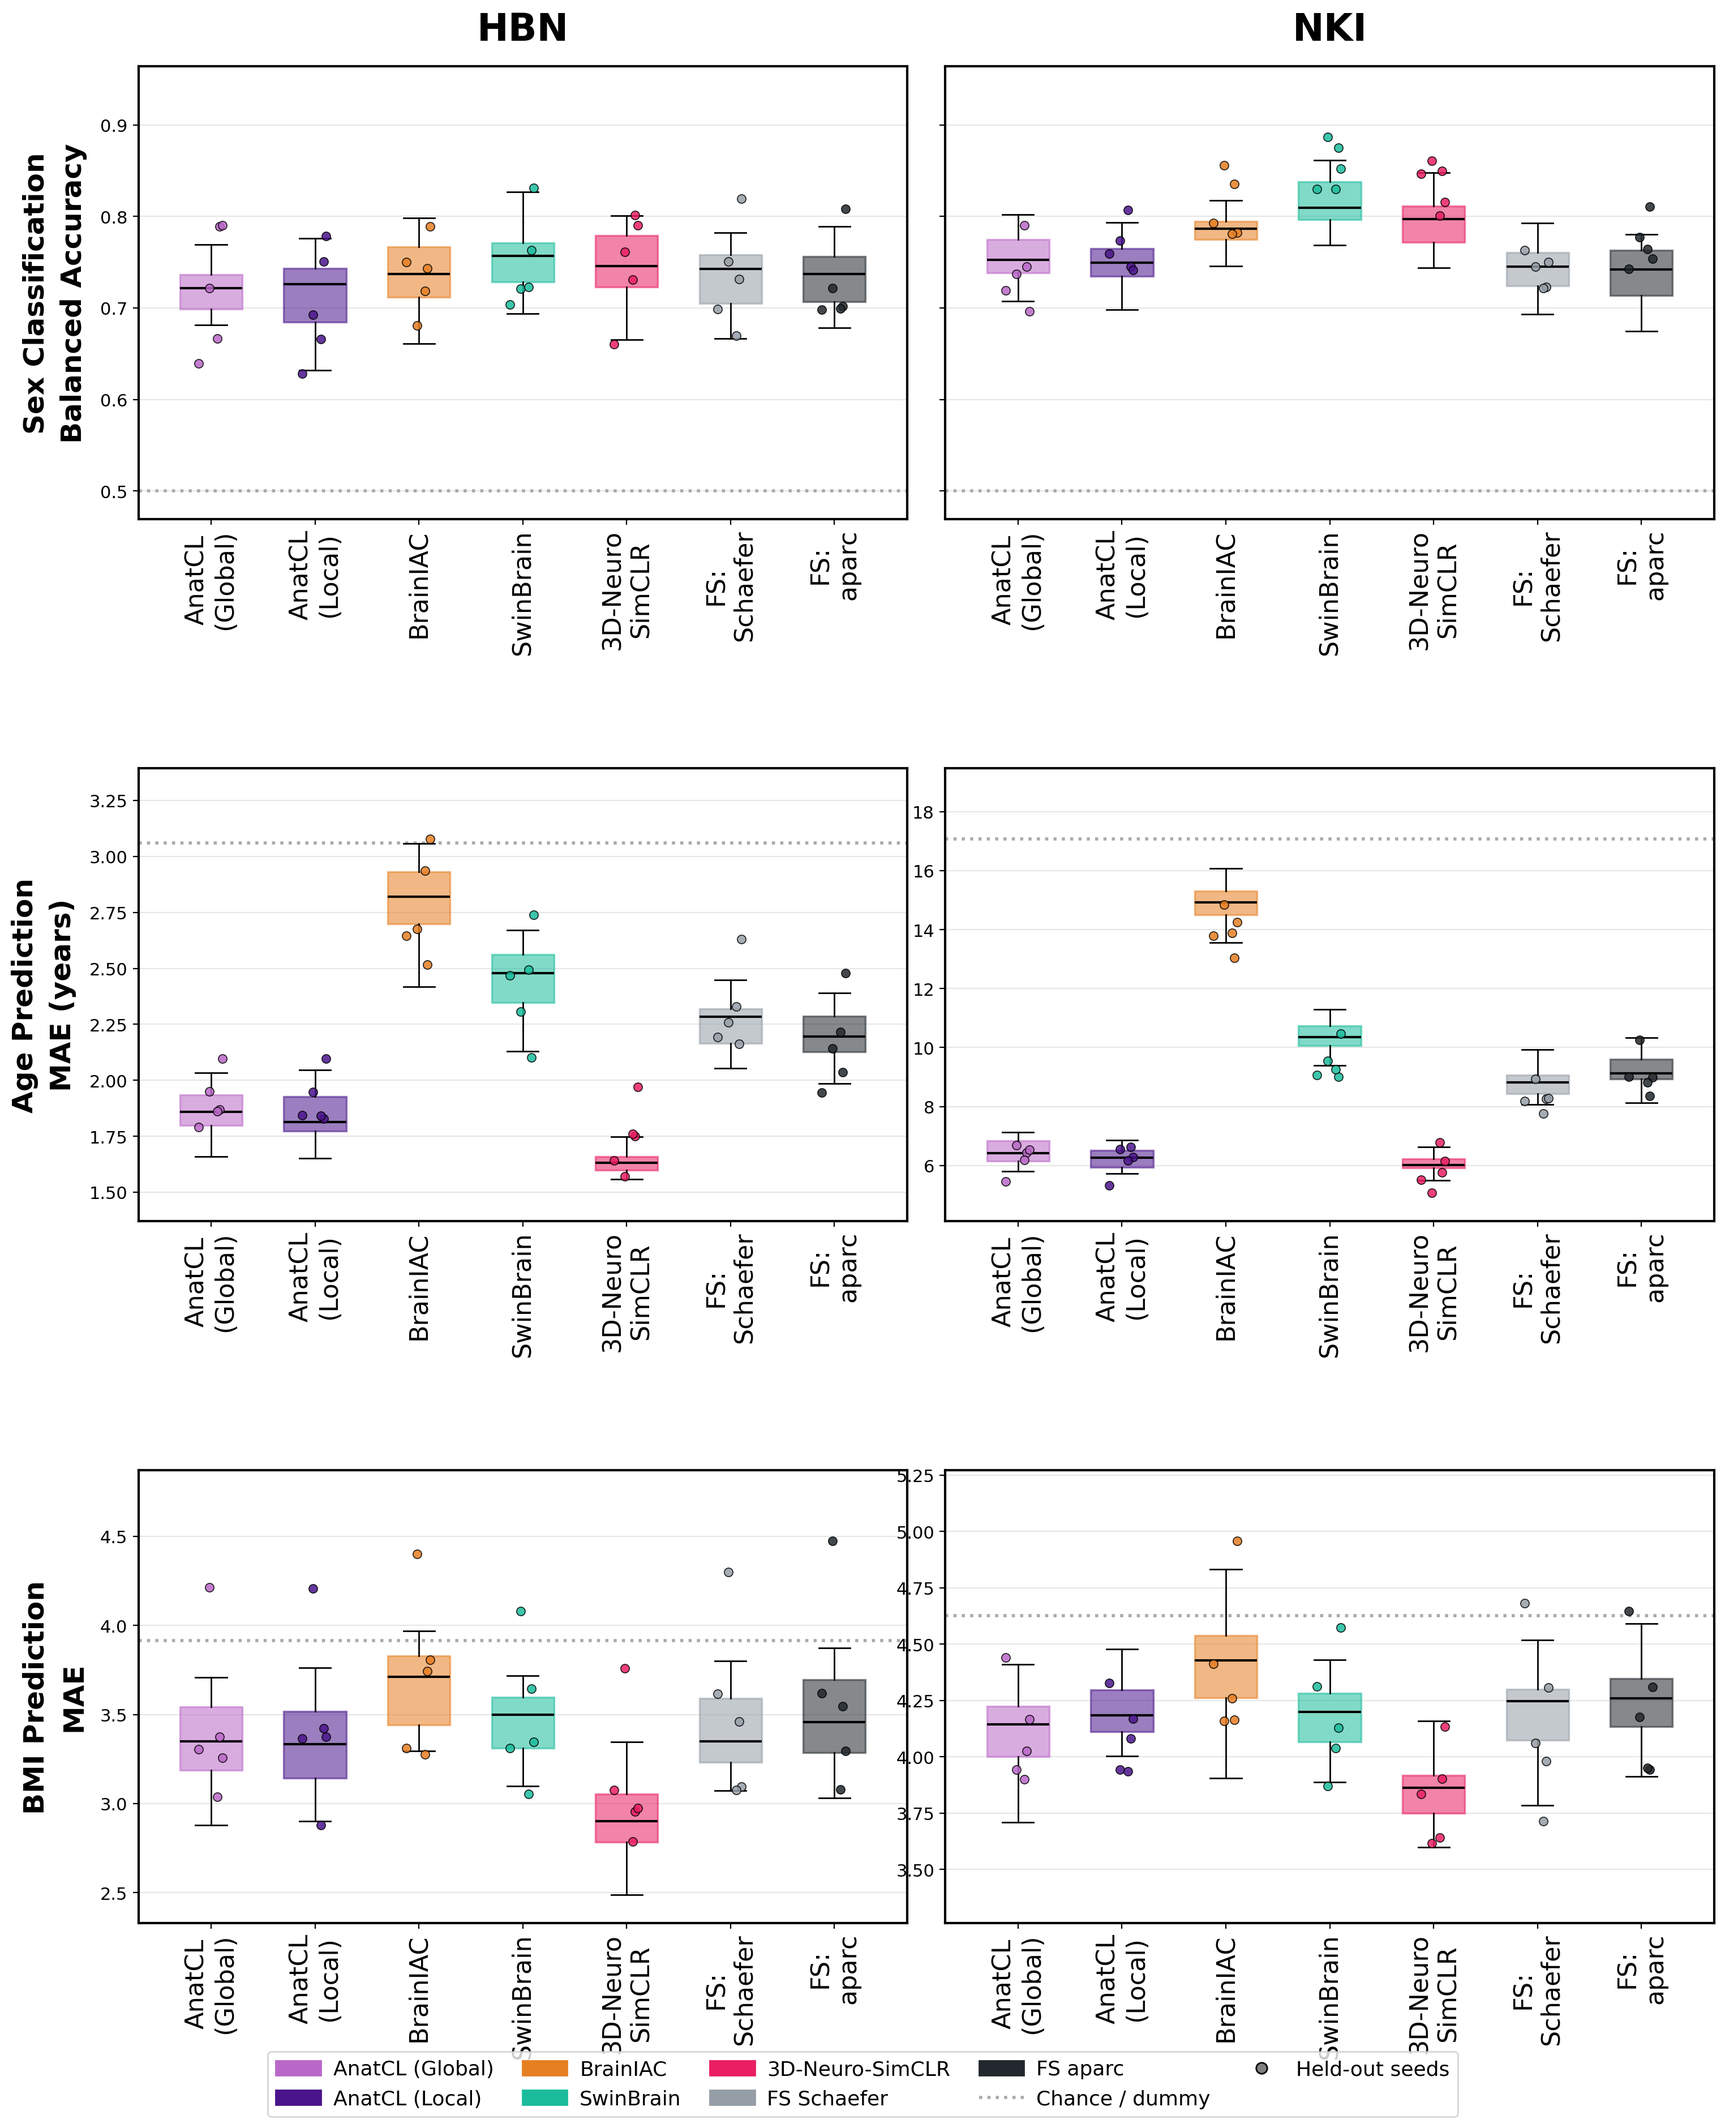
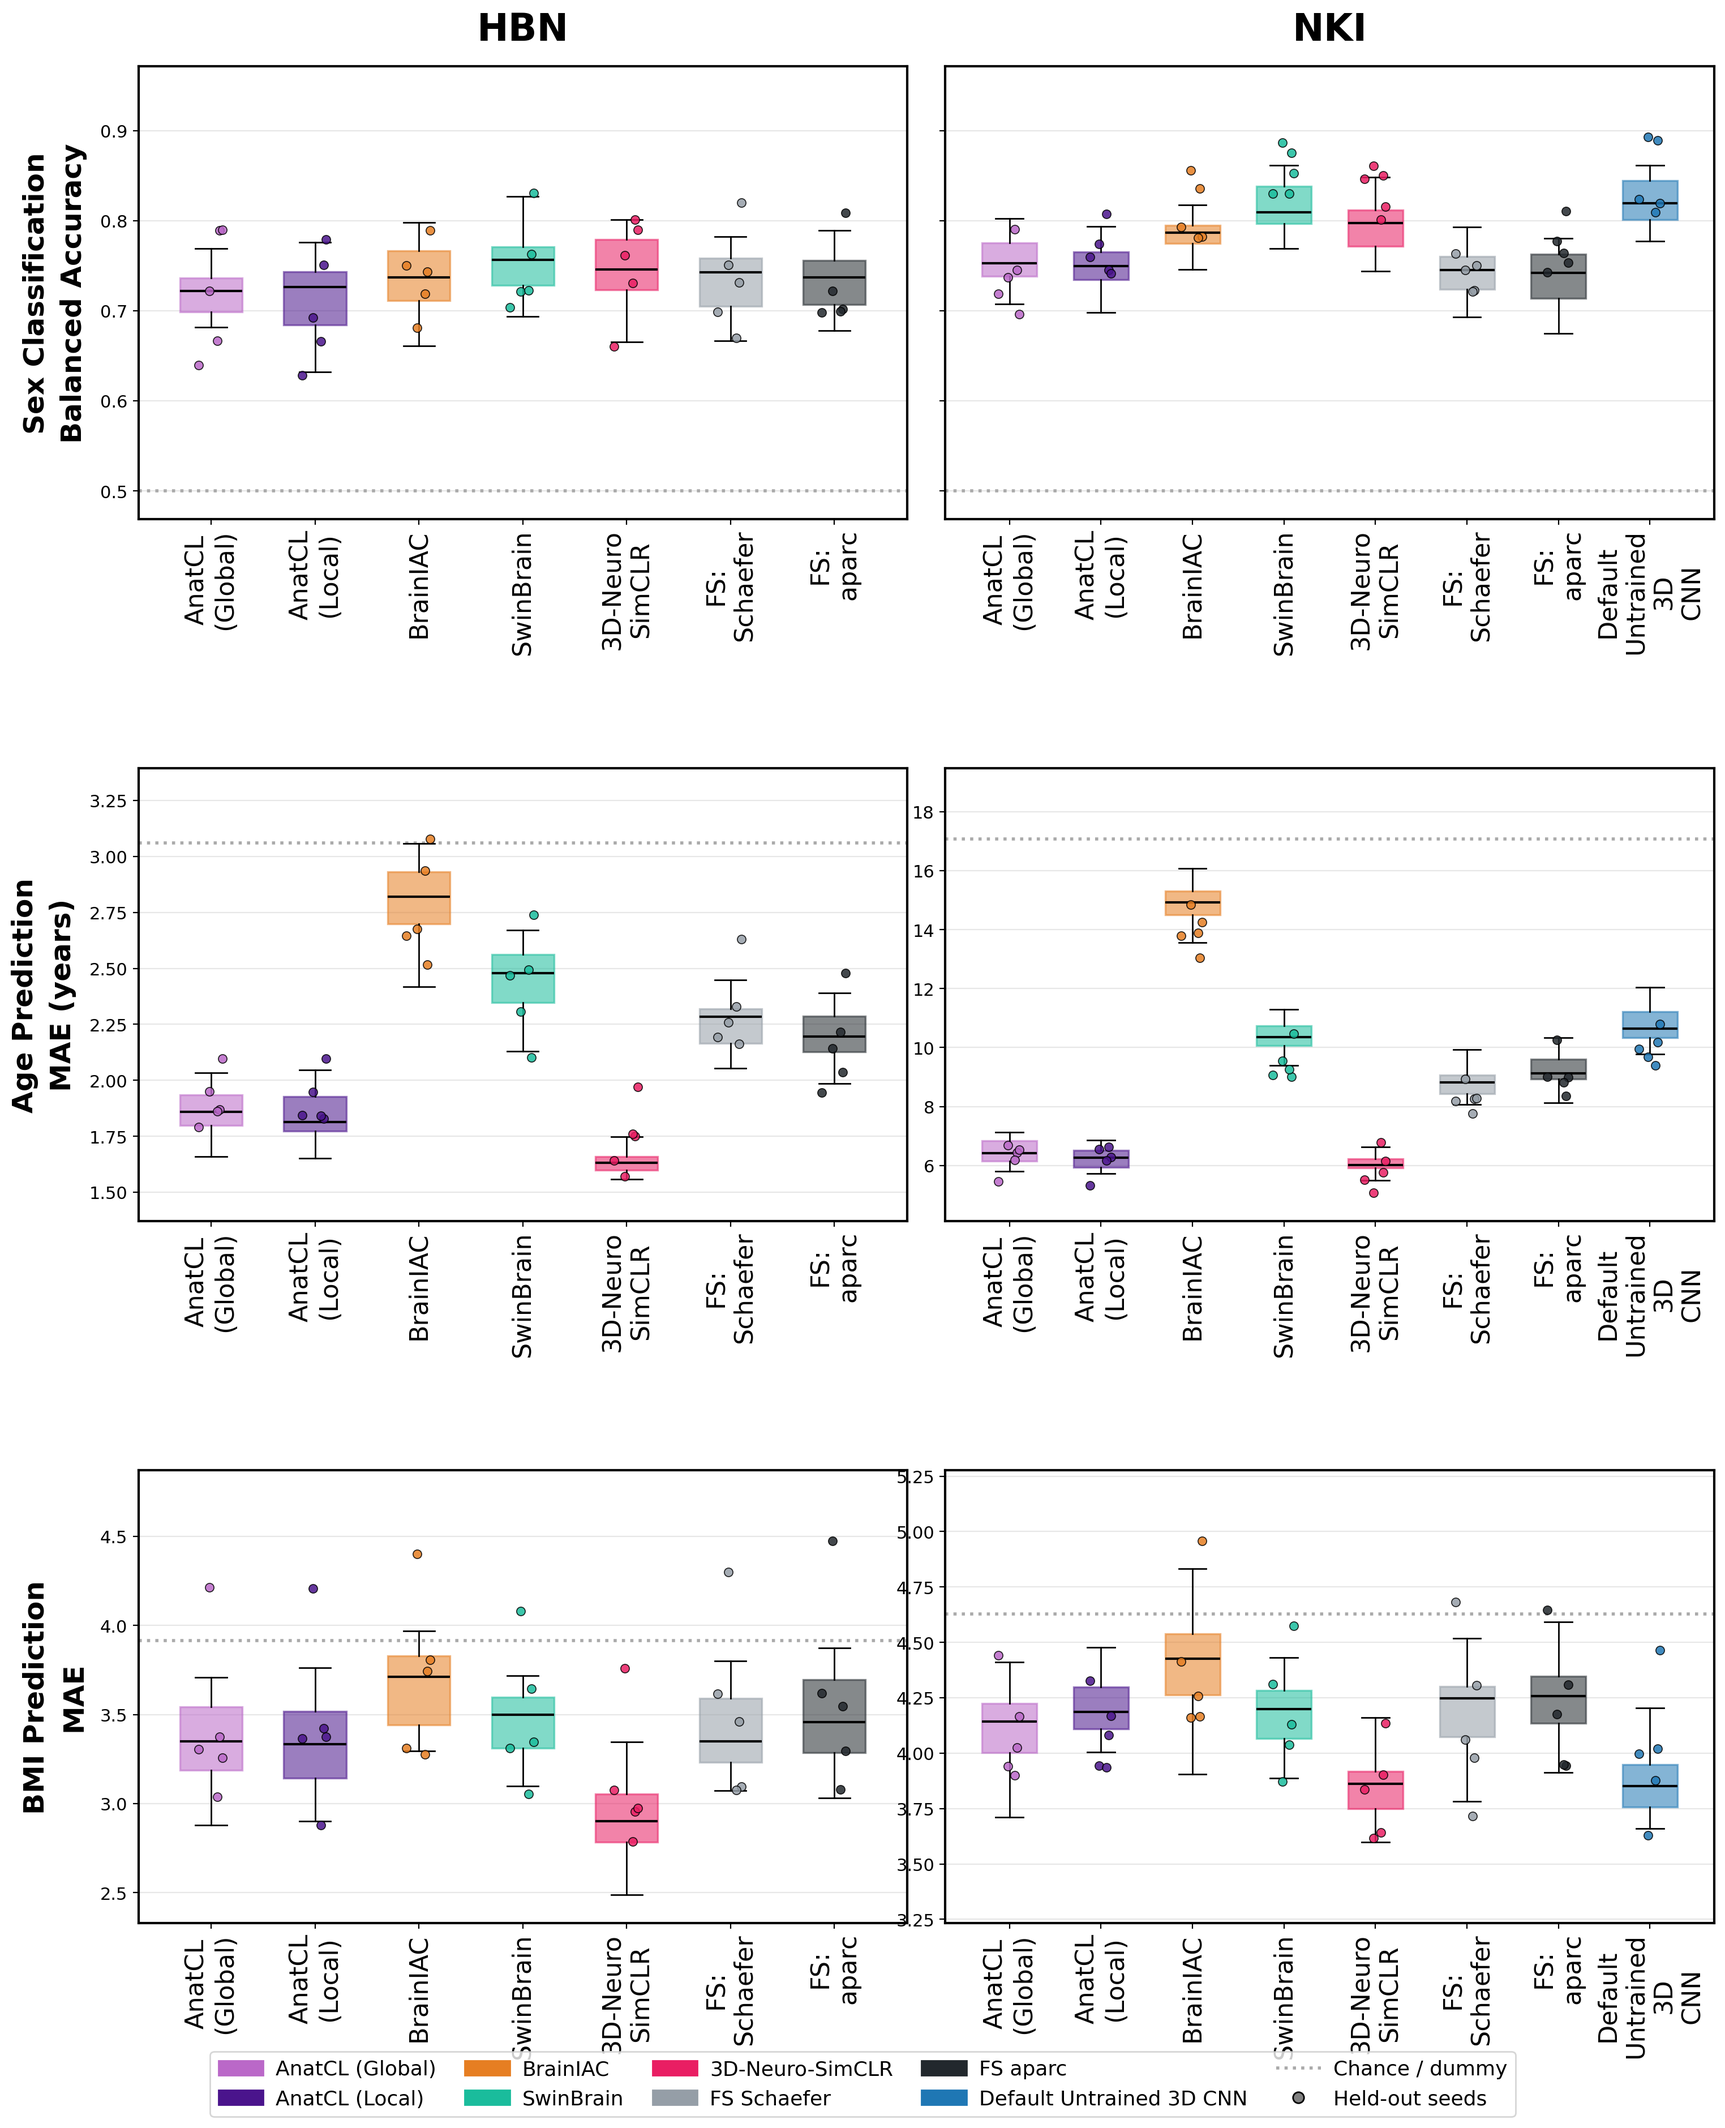
design choices

diff --git a/scripts/make_leaderboard.py b/scripts/make_leaderboard.py
@@ -1,7 +1,4 @@
 #!/usr/bin/env python3
-"""
-Regenerate LEADERBOARD.md (table) AND leaderboard_boxplots.png from every
-models/*/results.json."""
 
 import glob
 import json
@@ -104,10 +101,32 @@ def dummy_baseline(dataset, task, is_cls):
     return float(np.mean(vals))
 
 
-def _collect_group(table, dataset, box_key, dot_key, task):
+
+import matplotlib.cm as _cm
+import matplotlib.colors as _mcolors
+
+# All models present across results (known keep paper colors; new ones get
+# auto-assigned distinct colors + appended to the order, so a contributor's
+# model always appears in the figure and legend).
+def _all_models_in(table):
+    return {m for (m, _ds) in table.keys()}
+
+def _order_and_colors(table):
+    present = _all_models_in(table)
+    known = [m for m in MODEL_ORDER if m in present]
+    unknown = sorted(m for m in present if m not in MODEL_COLORS)
+    colors = dict(MODEL_COLORS)
+    if unknown:
+        cmap = matplotlib.colormaps["tab20"]
+        for i, m in enumerate(unknown):
+            colors[m] = _mcolors.to_hex(cmap(i % 20))
+    return known + unknown, colors
+
+
+def _collect_group(table, dataset, box_key, dot_key, task, order, colors):
     positions, box_data, box_colors, heldout_data, xpos, xlbl = [], [], [], [], [], []
     pos = 1
-    for m in MODEL_ORDER:
+    for m in order:
         row = table.get((m, dataset), {}).get(task)
         if not row:
             continue
@@ -116,9 +135,9 @@ def _collect_group(table, dataset, box_key, dot_key, task):
             continue
         hvals = row.get(dot_key) or []
         positions.append(pos); box_data.append(np.asarray(vals, float))
-        box_colors.append(MODEL_COLORS[m])
+        box_colors.append(colors[m])
         heldout_data.append(np.asarray(hvals, float))
-        xpos.append(pos); xlbl.append(DISPLAY_NAMES.get(m, m))
+        xpos.append(pos); xlbl.append(DISPLAY_NAMES.get(m, m.replace(' ', chr(10))))
         pos += 1
     return positions, box_data, box_colors, heldout_data, xpos, xlbl
 
@@ -153,6 +172,7 @@ def _draw_boxes_core(ax, positions, box_data, box_colors, heldout_data, xpos, xl
 
 
 def make_boxplots(table, out_png):
+    order, colors = _order_and_colors(table)
     fig = plt.figure(figsize=(16, 20))
     outer = GridSpec(3, 1, figure=fig, hspace=0.55,
                      left=0.10, right=0.97, top=0.94, bottom=0.12)
@@ -160,7 +180,7 @@ def make_boxplots(table, out_png):
     # shared sex y-limits
     _sex_vals, _sex_bvs = [], []
     for ds in DATASETS:
-        p, d, c, h, xp, xl = _collect_group(table, ds, "cv_acc_values", "test_acc_seeds", "sex")
+        p, d, c, h, xp, xl = _collect_group(table, ds, "cv_acc_values", "test_acc_seeds", "sex", order, colors)
         if d:
             _sex_vals.extend(np.concatenate(d))
             for hv in h:
@@ -183,7 +203,7 @@ def make_boxplots(table, out_png):
         inner = GridSpecFromSubplotSpec(1, len(DATASETS), subplot_spec=outer[row_i],
                                         wspace=0.05, width_ratios=wratios)
         for col_i, ds in enumerate(DATASETS):
-            p, d, c, h, xp, xl = _collect_group(table, ds, box_key, dot_key, task)
+            p, d, c, h, xp, xl = _collect_group(table, ds, box_key, dot_key, task, order, colors)
 
             if is_cls:
                 if col_i == 0:
@@ -225,7 +245,7 @@ def make_boxplots(table, out_png):
                 ax.tick_params(axis="y", labelsize=YTICK_FS,
                                left=True, labelleft=(not is_cls))
 
-    legend_handles = [mpatches.Patch(color=MODEL_COLORS[m], label=m) for m in MODEL_ORDER]
+    legend_handles = [mpatches.Patch(color=colors[m], label=m) for m in order]
     legend_handles += [
         Line2D([0], [0], color="#AAAAAA", linewidth=2, linestyle=":", label="Chance / dummy"),
         Line2D([0], [0], color="white", marker="o", markerfacecolor="gray",
@@ -268,7 +288,7 @@ def main():
         fig_ok = False
 
     lines = [
-        "# BrainFMBench Leaderboard", "",
+        "# OpenMRIBench Leaderboard", "",
         "Downstream probing of frozen features (RandomForest, held-out test).",
         "Sex = balanced accuracy (higher is better); Age / BMI = MAE (lower is better).", "",
     ]
@@ -279,17 +299,39 @@ def main():
             "overlaid points show held-out test results for the same 5 seeds._", "",
         ]
     lines += [
-        "| Rank | Model | Dataset | Sex (acc) | Age (MAE) | BMI (MAE) |",
-        "|-----:|-------|---------|-----------|-----------|-----------|",
+        "| Model | Dataset | Sex (acc) | Age (MAE) | BMI (MAE) |",
+        "|-------|---------|-----------|-----------|-----------|",
     ]
-    for i, d in enumerate(display, 1):
-        lines.append(f"| {i} | {d['model']} | {d['dataset']} | "
+    for d in display:
+        lines.append(f"| {d['model']} | {d['dataset']} | "
                      f"{d['sex_cell']} | {d['age_cell']} | {d['bmi_cell']} |")
     lines += ["", "_Auto-generated from `models/*/results.json`. Do not edit by hand._"]
 
     with open(os.path.join(REPO, "LEADERBOARD.md"), "w") as f:
         f.write("\n".join(lines))
     print(f"Wrote LEADERBOARD.md  ({len(display)} rows)")
+
+    # inject leaderboard (figure + table) into README.md between markers
+    readme = os.path.join(REPO, "README.md")
+    if os.path.isfile(readme):
+        blk = ["<!-- LEADERBOARD:START -->", ""]
+        if fig_ok:
+            blk += ["![Leaderboard boxplots](leaderboard_boxplots.png)", ""]
+        blk += ["| Model | Dataset | Sex (acc) | Age (MAE) | BMI (MAE) |",
+                "|-------|---------|-----------|-----------|-----------|"]
+        for d in display:
+            blk.append(f"| {d['model']} | {d['dataset']} | "
+                       f"{d['sex_cell']} | {d['age_cell']} | {d['bmi_cell']} |")
+        blk += ["", "_Ranking varies by task and dataset; there is no single overall winner._",
+                "", "<!-- LEADERBOARD:END -->"]
+        blk_text = "\n".join(blk)
+        c = open(readme).read()
+        a, b = "<!-- LEADERBOARD:START -->", "<!-- LEADERBOARD:END -->"
+        if a in c and b in c:
+            c = c.split(a)[0] + blk_text + c.split(b)[1]
+            open(readme, "w").write(c)
+            print(f"Injected leaderboard into {readme}")
+
     return 0
 
 

diff --git a/LEADERBOARD.md b/LEADERBOARD.md
@@ -1,4 +1,4 @@
-# BrainFMBench Leaderboard
+# OpenMRIBench Leaderboard
 
 Downstream probing of frozen features (RandomForest, held-out test).
 Sex = balanced accuracy (higher is better); Age / BMI = MAE (lower is better).
@@ -7,22 +7,22 @@ Sex = balanced accuracy (higher is better); Age / BMI = MAE (lower is better).
 
 _Boxes show 5-fold cross-validation across 5 seeds (25 values); overlaid points show held-out test results for the same 5 seeds._
 
-| Rank | Model | Dataset | Sex (acc) | Age (MAE) | BMI (MAE) |
-|-----:|-------|---------|-----------|-----------|-----------|
-| 1 | SwinBrain | NKI | 0.855 ± 0.023 | 9.47 ± 0.54 | 4.18 ± 0.24 |
-| 2 | Default Untrained 3D CNN | NKI | 0.847 ± 0.036 | 10.00 ± 0.47 | 4.00 ± 0.27 |
-| 3 | 3D-Neuro-SimCLR | NKI | 0.835 ± 0.023 | 5.86 ± 0.58 | 3.83 ± 0.19 |
-| 4 | BrainIAC | NKI | 0.810 ± 0.031 | 13.96 ± 0.59 | 4.39 ± 0.30 |
-| 5 | FS aparc | NKI | 0.770 ± 0.023 | 9.09 ± 0.63 | 4.20 ± 0.26 |
-| 6 | AnatCL (Local) | NKI | 0.765 ± 0.024 | 6.19 ± 0.47 | 4.09 ± 0.15 |
-| 7 | 3D-Neuro-SimCLR | HBN | 0.749 ± 0.051 | 1.74 ± 0.14 | 3.11 ± 0.34 |
-| 8 | SwinBrain | HBN | 0.748 ± 0.046 | 2.42 ± 0.21 | 3.49 ± 0.35 |
-| 9 | FS Schaefer | NKI | 0.740 ± 0.016 | 8.29 ± 0.38 | 4.15 ± 0.33 |
-| 10 | AnatCL (Global) | NKI | 0.738 ± 0.031 | 6.26 ± 0.43 | 4.09 ± 0.20 |
-| 11 | BrainIAC | HBN | 0.737 ± 0.036 | 2.77 ± 0.21 | 3.71 ± 0.41 |
-| 12 | FS Schaefer | HBN | 0.734 ± 0.051 | 2.32 ± 0.17 | 3.51 ± 0.45 |
-| 13 | FS aparc | HBN | 0.726 ± 0.042 | 2.16 ± 0.18 | 3.60 ± 0.48 |
-| 14 | AnatCL (Global) | HBN | 0.721 ± 0.062 | 1.91 ± 0.10 | 3.44 ± 0.40 |
-| 15 | AnatCL (Local) | HBN | 0.703 ± 0.055 | 1.91 ± 0.10 | 3.45 ± 0.43 |
+| Model | Dataset | Sex (acc) | Age (MAE) | BMI (MAE) |
+|-------|---------|-----------|-----------|-----------|
+| SwinBrain | NKI | 0.855 ± 0.023 | 9.47 ± 0.54 | 4.18 ± 0.24 |
+| Default Untrained 3D CNN | NKI | 0.847 ± 0.036 | 10.00 ± 0.47 | 4.00 ± 0.27 |
+| 3D-Neuro-SimCLR | NKI | 0.835 ± 0.023 | 5.86 ± 0.58 | 3.83 ± 0.19 |
+| BrainIAC | NKI | 0.810 ± 0.031 | 13.96 ± 0.59 | 4.39 ± 0.30 |
+| FS aparc | NKI | 0.770 ± 0.023 | 9.09 ± 0.63 | 4.20 ± 0.26 |
+| AnatCL (Local) | NKI | 0.765 ± 0.024 | 6.19 ± 0.47 | 4.09 ± 0.15 |
+| 3D-Neuro-SimCLR | HBN | 0.749 ± 0.051 | 1.74 ± 0.14 | 3.11 ± 0.34 |
+| SwinBrain | HBN | 0.748 ± 0.046 | 2.42 ± 0.21 | 3.49 ± 0.35 |
+| FS Schaefer | NKI | 0.740 ± 0.016 | 8.29 ± 0.38 | 4.15 ± 0.33 |
+| AnatCL (Global) | NKI | 0.738 ± 0.031 | 6.26 ± 0.43 | 4.09 ± 0.20 |
+| BrainIAC | HBN | 0.737 ± 0.036 | 2.77 ± 0.21 | 3.71 ± 0.41 |
+| FS Schaefer | HBN | 0.734 ± 0.051 | 2.32 ± 0.17 | 3.51 ± 0.45 |
+| FS aparc | HBN | 0.726 ± 0.042 | 2.16 ± 0.18 | 3.60 ± 0.48 |
+| AnatCL (Global) | HBN | 0.721 ± 0.062 | 1.91 ± 0.10 | 3.44 ± 0.40 |
+| AnatCL (Local) | HBN | 0.703 ± 0.055 | 1.91 ± 0.10 | 3.45 ± 0.43 |
 
 _Auto-generated from `models/*/results.json`. Do not edit by hand._

diff --git a/README.md b/README.md
@@ -4,6 +4,33 @@ A living benchmark for **brain structural MRI foundation models**. Contributors
 submit a model; model is applied to MRI datasets to extract features; features are
 fed into downstream learners; the leaderboard updates automatically.
 
+<!-- LEADERBOARD:START -->
+
+![Leaderboard boxplots](leaderboard_boxplots.png)
+
+| Model | Dataset | Sex (acc) | Age (MAE) | BMI (MAE) |
+|-------|---------|-----------|-----------|-----------|
+| SwinBrain | NKI | 0.855 ± 0.023 | 9.47 ± 0.54 | 4.18 ± 0.24 |
+| Default Untrained 3D CNN | NKI | 0.847 ± 0.036 | 10.00 ± 0.47 | 4.00 ± 0.27 |
+| 3D-Neuro-SimCLR | NKI | 0.835 ± 0.023 | 5.86 ± 0.58 | 3.83 ± 0.19 |
+| BrainIAC | NKI | 0.810 ± 0.031 | 13.96 ± 0.59 | 4.39 ± 0.30 |
+| FS aparc | NKI | 0.770 ± 0.023 | 9.09 ± 0.63 | 4.20 ± 0.26 |
+| AnatCL (Local) | NKI | 0.765 ± 0.024 | 6.19 ± 0.47 | 4.09 ± 0.15 |
+| 3D-Neuro-SimCLR | HBN | 0.749 ± 0.051 | 1.74 ± 0.14 | 3.11 ± 0.34 |
+| SwinBrain | HBN | 0.748 ± 0.046 | 2.42 ± 0.21 | 3.49 ± 0.35 |
+| FS Schaefer | NKI | 0.740 ± 0.016 | 8.29 ± 0.38 | 4.15 ± 0.33 |
+| AnatCL (Global) | NKI | 0.738 ± 0.031 | 6.26 ± 0.43 | 4.09 ± 0.20 |
+| BrainIAC | HBN | 0.737 ± 0.036 | 2.77 ± 0.21 | 3.71 ± 0.41 |
+| FS Schaefer | HBN | 0.734 ± 0.051 | 2.32 ± 0.17 | 3.51 ± 0.45 |
+| FS aparc | HBN | 0.726 ± 0.042 | 2.16 ± 0.18 | 3.60 ± 0.48 |
+| AnatCL (Global) | HBN | 0.721 ± 0.062 | 1.91 ± 0.10 | 3.44 ± 0.40 |
+| AnatCL (Local) | HBN | 0.703 ± 0.055 | 1.91 ± 0.10 | 3.45 ± 0.43 |
+
+_Ranking varies by task and dataset; there is no single overall winner._
+
+<!-- LEADERBOARD:END -->
+
+
 ## Leaderboard
 
 See [`LEADERBOARD.md`](LEADERBOARD.md) for the current ranking and the figure. Scores are downstream RandomForest probes of frozen
@@ -18,7 +45,7 @@ initiative:
 - **HBN** — Healthy Brain Network (~1000 subjects)
 
 Models are evaluated across three tasks: **sex** classification (balanced accuracy) and **age** / **BMI**
-regression (Mean Average Error). Preprocessing is [turboprep](https://github.com/LemuelPuglisi/turboprep) by default, with
+regression (mean absolute error). Preprocessing is [turboprep](https://github.com/LemuelPuglisi/turboprep) by default, with
 [CAT12](https://neuro-jena.github.io/cat/) also available.
 
 ## How it works
